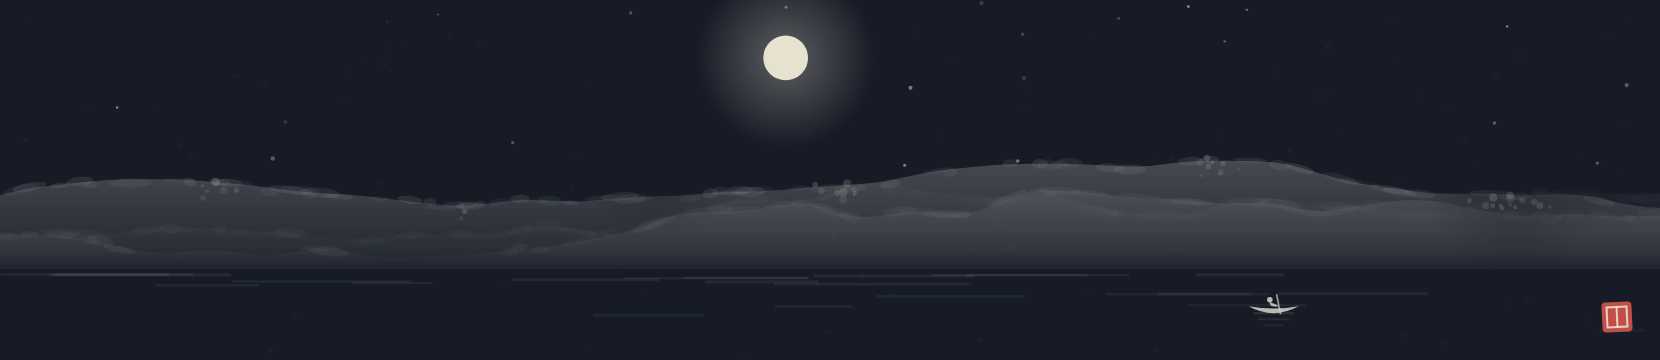
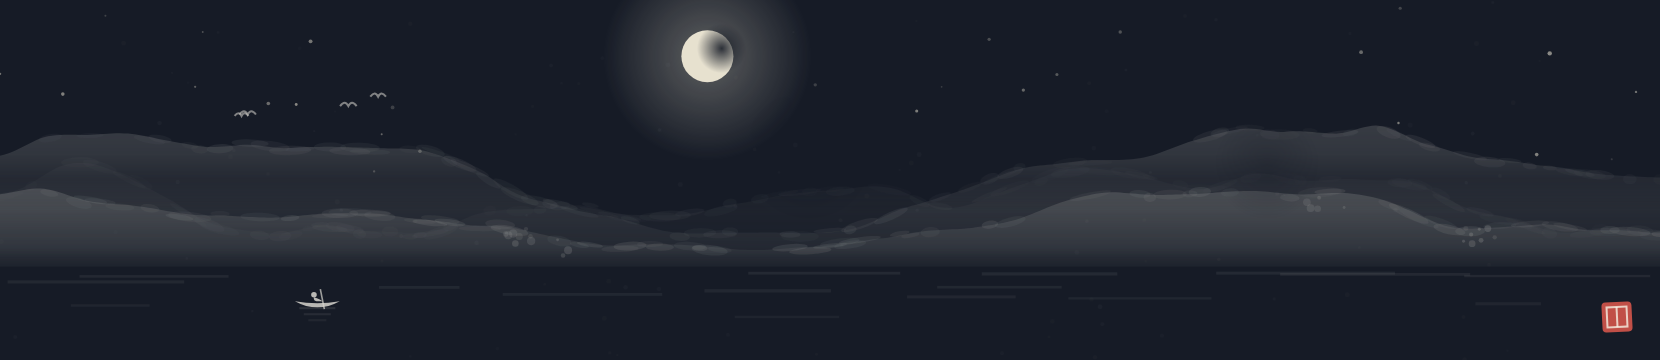
chore: refresh 2026-09-13

diff --git a/README.md b/README.md
@@ -5,7 +5,7 @@
     <img src="assets/ink-today.png" width="100%" alt="今日山色 — today's ink landscape">
   </picture>
 </p>
-<p align="center"><sub><!-- CAPTION:START -->今日山色 · 2026-09-12 · a new ink landscape every morning, seeded by the date &nbsp;·&nbsp; 「桐花万里丹山路，雏凤清于老凤声。」 李商隐<!-- CAPTION:END --></sub></p>
+<p align="center"><sub><!-- CAPTION:START -->今日山色 · 2026-09-13 · a new ink landscape every morning, seeded by the date &nbsp;·&nbsp; 「八月长江万里晴，千帆一道带风轻。」 崔季卿<!-- CAPTION:END --></sub></p>
 
 ### Hi, I'm jk.
 
